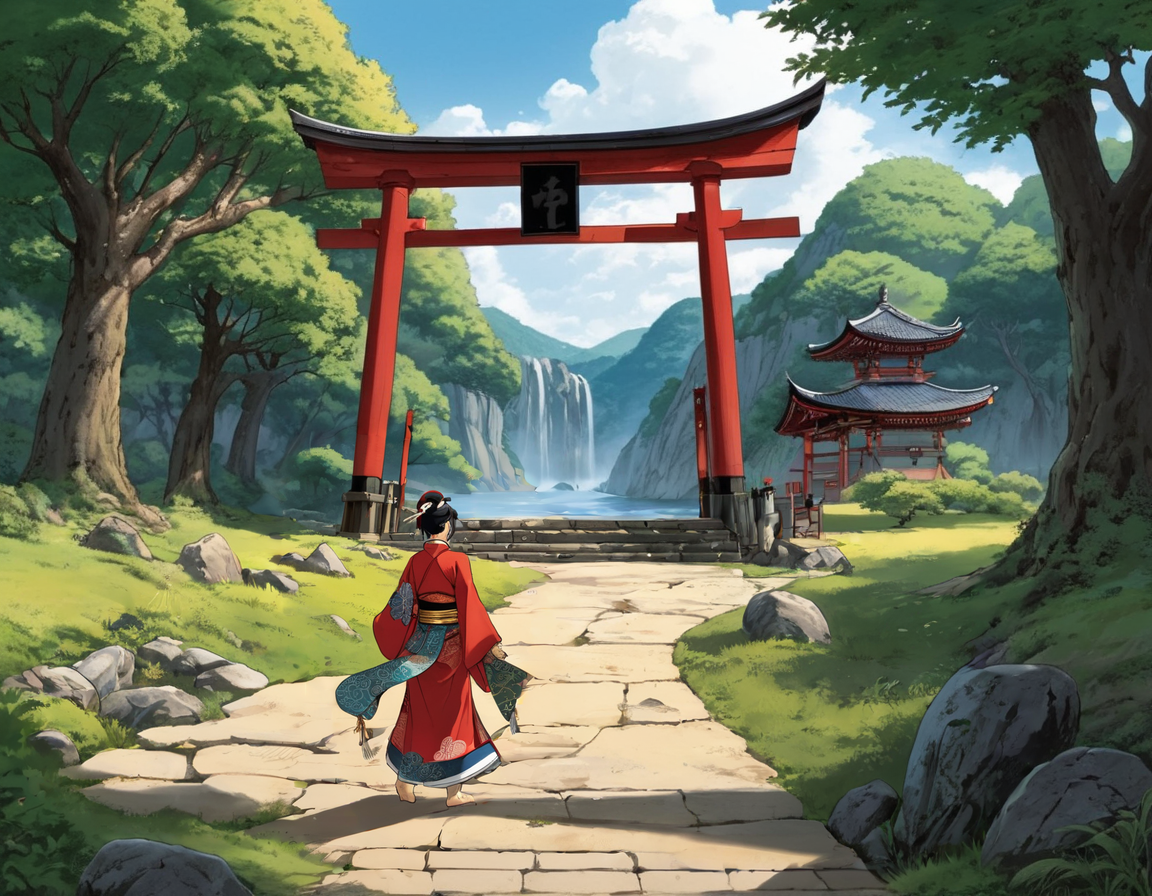
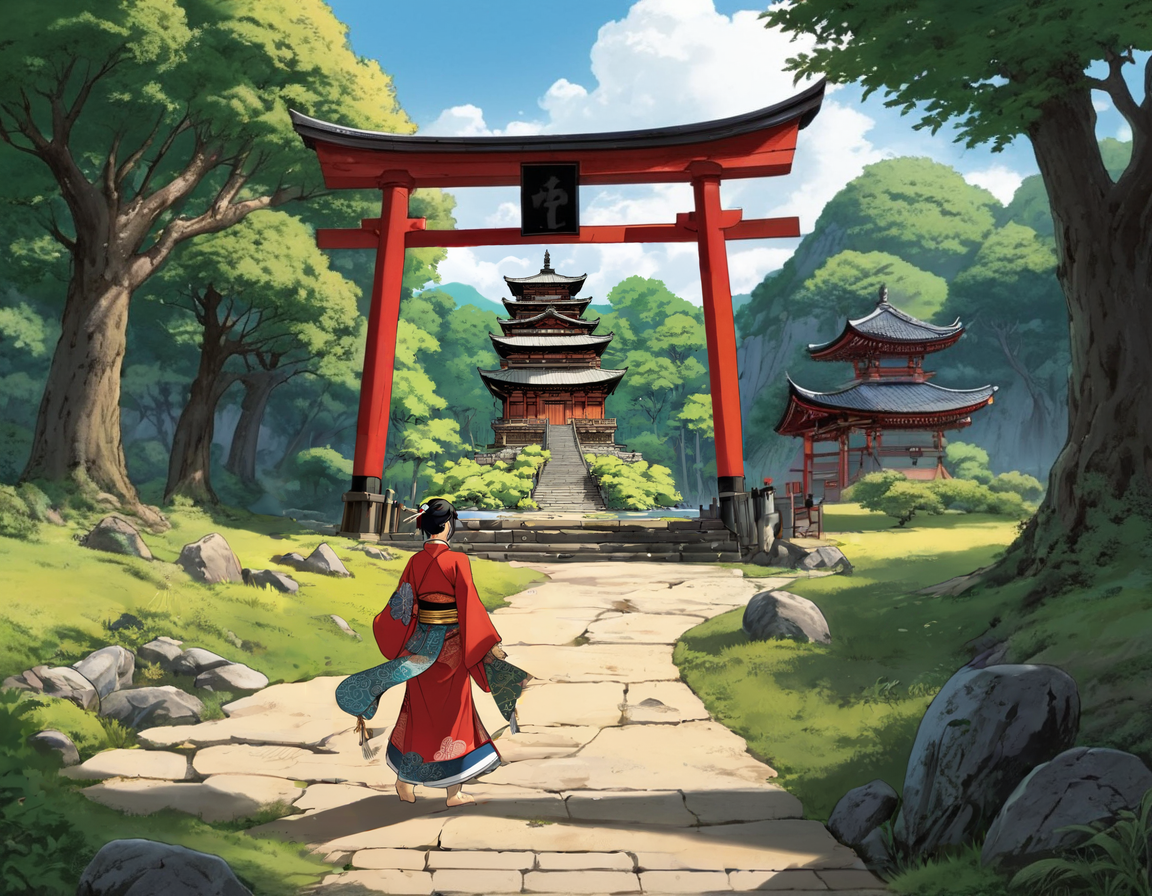
Add new images and import AnimatePresence

Changed region(s): [[0.3125, 0.25, 0.6562, 0.5938]]

diff --git a/src/lib/data/story/chapterData.ts b/src/lib/data/story/chapterData.ts
@@ -171,7 +171,7 @@ export const bungoOnoChapterData: Chapter[] = [
     area: bungoOnoArea,
     placeName: "Anamori Shrine",
     chapterNumber: "Chapter 10",
-    image: "/image/touriiverse/bungo-ono/harajiri-fall.jpeg",
+    image: "/image/touriiverse/bungo-ono/chapter10.png",
     realImage: "/image/touriiverse/bungo-ono-real/chapter10.jpg",
     title: "Serpent's Harmony and Kami's Alliance at Anamori Shrine",
     content:
@@ -185,8 +185,8 @@ export const bungoOnoChapterData: Chapter[] = [
     area: bungoOnoArea,
     placeName: "Bungo Ono",
     chapterNumber: "Chapter 11",
-    image: "/image/touriiverse/bungo-ono/harajiri-fall.jpeg",
-    realImage: "",
+    image: "/image/touriiverse/bungo-ono/chapter11.png",
+    realImage: "/image/touriiverse/bungo-ono-real/chapter11.jpg",
     title: "Whispers of the Past: The Kojiki Revelation",
     content:
       "In the shadowed stillness of an ancient library, amidst scrolls whispering secrets of ages past, Ninigi's fingers brush against the Kojiki records—a tome steeped in the ancestral lore of gods and heroes. As he unfurls the parchment, the air thickens with the weight of untold stories, the inked characters dancing a cryptic ballet of history and prophecy. The Kojiki, a chronicle of divine lineage and earthly sagas, offers Ninigi not just knowledge of his forebears but also a mirror reflecting his own destiny and that of his descendants.\r\rCompelled by the revelations within the timeworn pages, Ninigi resolves to trace the celestial footsteps chronicled in the Kojiki. Each location, a mosaic of myth and truth, promises to unveil fragments of the untold, guiding him deeper into the labyrinth of his lineage. Understanding these esoteric narratives is more than a quest for truth; it's a key to mastering the temporal tides he navigates. As he steps out, the library's ancient walls resonate with a silent promise: the paths tread by his ancestors, now shadowed by time's veil, will illuminate the road to his purpose, shaping the legacy that will echo through the ages.",
@@ -199,8 +199,8 @@ export const bungoOnoChapterData: Chapter[] = [
     area: bungoOnoArea,
     placeName: "Restaurant Fukujuso",
     chapterNumber: "Chapter 12",
-    image: "/image/touriiverse/bungo-ono/harajiri-fall.jpeg",
-    realImage: "",
+    image: "/image/touriiverse/bungo-ono/chapter12.png",
+    realImage: "/image/touriiverse/bungo-ono-real/chapter12.jpg",
     title: "The Sealed Kappa's Legend",
     content:
       "The aroma of grilled beef and the hum of convivial chatter envelop Ninigi's group as they find respite in the bustling ambiance of Restaurant Fukujuso. Amidst the feast and fellowship, an ancient tale emerges, whispered by locals with a reverence reserved for legends. It speaks of a Kappa, a creature of water and whim, sealed within a stone for a thousand years. The tale, as old as the hills that cradle the town, hints at a sealed mischief and a hidden wisdom waiting to be unearthed.\r\rCompelled by the story, Ninigi's party is drawn to the challenge of unveiling this mystery. The sealed Kappa, an echo of a forgotten past, beckons them, but the seal holds a corruption that threatens to seep through the cracks of time. Their path converges with the legend of Fudo Myoo, the deity wielding the soul-purification sword, a beacon of hope in their quest to cleanse the ancient seal. With determination in their hearts, Ninigi and his companions set their course for Fukoji Temple, where they seek the divine intervention of Fudo Myoo, hoping to unlock the secrets of the Kappa and safeguard the balance between the mystical and the mortal realms.",
@@ -213,8 +213,8 @@ export const bungoOnoChapterData: Chapter[] = [
     area: bungoOnoArea,
     placeName: "Fukoji Temple",
     chapterNumber: "Chapter 13",
-    image: "/image/touriiverse/bungo-ono/harajiri-fall.jpeg",
-    realImage: "",
+    image: "/image/touriiverse/bungo-ono/chalter13.png",
+    realImage: "/image/touriiverse/bungo-ono-real/chapter13.jpg",
     title: "Turmoil at Fukoji Temple",
     content:
       "Arriving at Fukoji Temple, Ninigi's group steps into a scene far removed from the sanctuary they anticipated. The temple grounds, usually a bastion of serenity, are ensnared in turmoil. Amidst this chaos stands Fudo Myoo, the temple's guardian deity, his formidable presence overshadowed by the discord that permeates his domain.\r\rDriven by a profound respect for the sacred and a steadfast resolve, Ninigi and his allies delve into the heart of the disturbance. Their journey leads them to a concealed garden where hydrangeas bloom in riotous colors, their vibrant petals stark against the temple's unrest. As if by ancient magic, the flowers' tranquil beauty begins to weave a tapestry of calm, gradually stilling the tumultuous energy that had seized the temple.\r\rIn the newly restored peace, Fudo Myoo acknowledges the bravery and sincerity of Ninigi's group with a deep sense of gratitude. He bestows upon Ninigi his sacred sword, a revered blade with the power to quell the lingering malevolence of the Kappa. As the temple basks in its reclaimed tranquility, the Kappa, liberated from its age-old confinement, imparts a cryptic message to Ninigi—a clue pointing towards the hidden depths of Jinkaku Temple, where the secrets of the Kojiki records lie in wait, ready to unveil the next chapter in their celestial journey.",
@@ -544,3 +544,38 @@ for (let i = 1; i <= 35; i++) {
     isSelected: false,
   });
 }
+
+const routeDetails = [
+  {
+    routeDetailId: "stop 1",
+    routeDetailTime: "9am",
+    routeDetailName: "Harajiri Falls",
+    visualNovelLink: "Revisit the story",
+    routeDetailBigImage: "",
+    routeDetailSmallImage: {
+      image1: "",
+      image2: "",
+      image3: "",
+    }, // image
+    routeDetailDescription: `Boasting a width of 120m and a height of 20m, Harajiri falls is also called the "Niagara of the East". It appears suddenly in a tranquil agricultural area, allowing for close-up views of the waterfall. The waterfall is located over the Ogata River, a tributary of the Ono River, and when viewed from above, it forms a beautiful arc\r\rSince ancient times, it has been closely related to people's lives and has had a significant impact on our history, culture, and industry. The foundation of this impact can be observed in the appearance of the waterfall and the state of the river. The shrine, waterways, and stone bridges are built on top of this foundation. In spring, many tulips bloom around the area, spreading a beautiful scenery`,
+    routeDetailLocation: "Harajiri Falls",
+    routeDetailAddress: "410 Ogatamachi Harajiri, Bungoono, Oita",
+    routeHashtag: ["#waterfall", "#rafting"],
+  },
+  {
+    routeDetailId: "stop 2",
+    routeDetailTime: "11am",
+    routeDetailName: "Eboshi Park",
+    visualNovelLink: "Revisit the story",
+    routeDetailBigImage: "",
+    routeDetailSmallImage: {
+      image1: "",
+      image2: "",
+      image3: "",
+    }, // image
+    routeDetailDescription: `Eboshi Park is a park located`,
+    routeDetailLocation: "Eboshi Park",
+    routeDetailAddress: "410 Ogatamachi Harajiri, Bungoono, Oita",
+    routeHashtag: ["#park", "#nature"],
+  },
+];

diff --git a/src/app/(story)/touriiverse/bungo-ono/page.tsx b/src/app/(story)/touriiverse/bungo-ono/page.tsx
@@ -7,6 +7,7 @@ import {
   bungoOnoChapterData,
   chapterSelectionData,
 } from "@/lib/data/story/chapterData";
+import { AnimatePresence } from "framer-motion";
 import { type NextPage } from "next";
 import { useRef, useState } from "react";
 
@@ -41,15 +42,19 @@ const BungoOno: NextPage = () => {
   return (
     <div className="absolute -right-0 h-[90vh] w-[95vw] overflow-hidden">
       {selectedChapter?.chapterNumber === "Intro" ? (
-        <IntroComponent
-          key={selectedChapter?.chapterId}
-          chapter={selectedChapter}
-        />
+        <AnimatePresence mode="wait">
+          <IntroComponent
+            key={selectedChapter?.chapterId}
+            chapter={selectedChapter}
+          />
+        </AnimatePresence>
       ) : (
-        <ChapterComponent
-          key={selectedChapter?.chapterId}
-          chapter={selectedChapter}
-        />
+        <AnimatePresence mode="wait">
+          <ChapterComponent
+            key={selectedChapter?.chapterId}
+            chapter={selectedChapter}
+          />
+        </AnimatePresence>
       )}
       <div className="mt-2 flex rounded-bl-xl rounded-tl-xl bg-warmGrey2 pb-4 pl-12">
         <div
